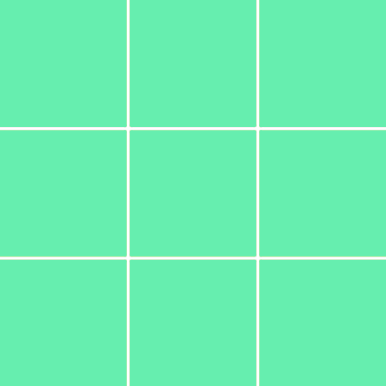
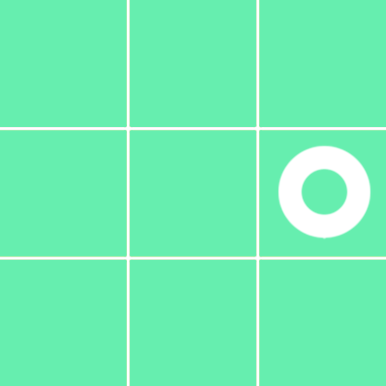
Updated the redis worker functions

Changed region(s): [[0.715, 0.3731, 0.9637, 0.6218]]

diff --git a/main.py b/main.py
@@ -1,0 +1,87 @@
+import discord
+from discord import channel
+from discord import client
+from dotenv.main import load_dotenv
+from keep_alive import keep_alive
+import os
+from PIL import Image
+import redis
+import pickle
+r = redis.Redis()
+img0 = Image.open(r"Green grid.png")
+img1 = Image.open(r"cross white.png")
+img2 = Image.open(r"circle white.png")
+imar = [img1, img2]
+w = 131
+h = 129
+Pos = [[(0, 0), (w, 0), (2*w, 0)],
+       [(0, h), (w, h), (2*w, h)],
+       [(0, 2*h), (w, 2*h), (2*w, 2*h)]]
+
+garray = [[-1, -1, -1], [-1, -1, -1], [-1, -1, -1]]
+client = discord.Client()
+
+
+@client.event
+async def on_ready():
+    print("Bot is up ")
+
+
+@client.event
+async def on_message(message):
+    if message.author == client.user:
+        return
+
+    imsg = message.content
+
+    if(imsg.startswith("$tichelp")):
+        async with message.channel.typing():
+            await message.channel.send("$startgame to tictactoe")
+    if(imsg.startswith("$tictactoe")):
+        await message.channel.send("$game start")
+
+
+def render(garray):
+    img0 = Image.open(r"Green grid.png")
+    img1 = Image.open(r"cross white.png")
+    img2 = Image.open(r"circle white.png")
+    imar = [img1, img2]
+    w = 131
+    h = 129
+    Pos = [[(0, 0), (w, 0), (2*w, 0)],
+           [(0, h), (w, h), (2*w, h)],
+           [(0, 2*h), (w, 2*h), (2*w, 2*h)]]
+    a = 0
+    for i in garray:
+        b = 0
+        for j in i:
+            if(j == -1):
+                b += 1
+            else:
+                img0.paste(imar[j], Pos[a][b], mask=imar[j])
+                #img0.save("Green grid.png")
+                # img0.show()
+                b += 1
+        a += 1
+    # img0.show()
+    return(img0)
+
+
+def readRedis():
+    game = pickle.loads(r.get('garray'))
+    return game
+
+
+def writeRedis(gArr):
+    r.set(garray, pickle.dumps(gArr))
+
+
+def flushRedis():
+    r.flushdb
+
+
+keep_alive()
+load_dotenv()
+my_secret = os.getenv('mtoken')
+# print(my_secret)
+client.run(my_secret)

diff --git a/keep_alive.py b/keep_alive.py
@@ -1,0 +1,18 @@
+from flask import Flask
+from threading import Thread
+
+app = Flask('')
+
+
+@app.route('/')
+def home():
+    return "Hello. I am alive!"
+
+
+def run():
+    app.run(host='0.0.0.0', port=8080)
+
+
+def keep_alive():
+    t = Thread(target=run)
+    t.start()
